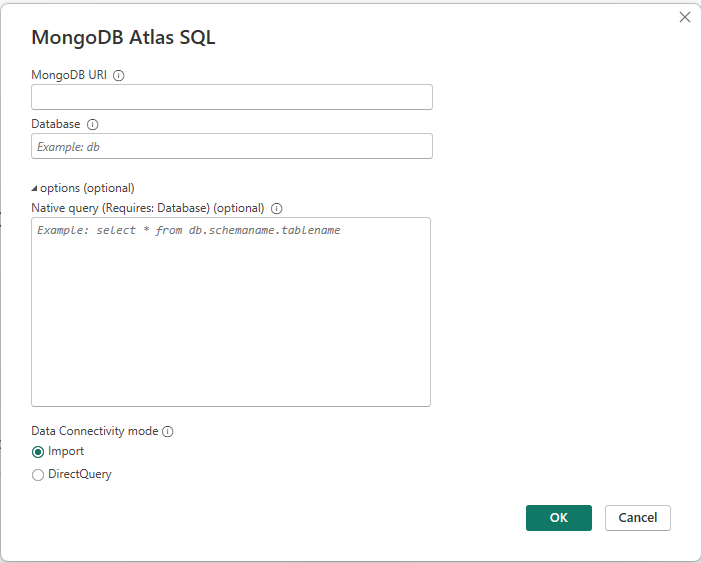
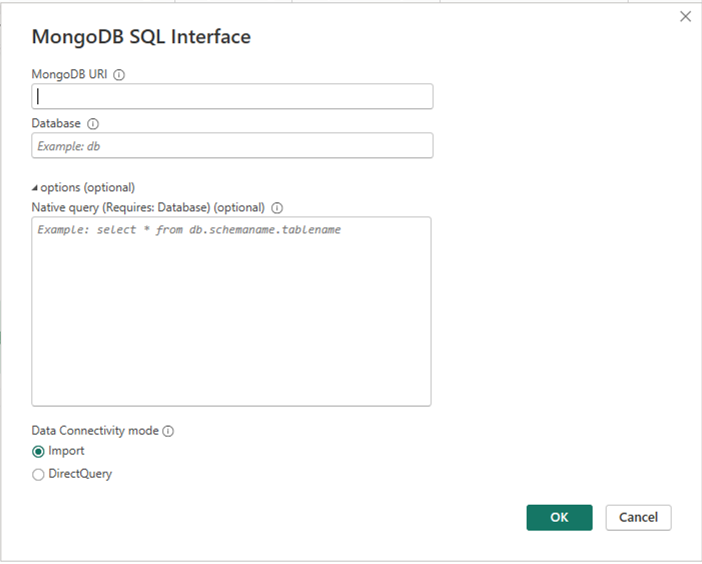
SQL-2941: Power BI Connector update (removal of "Atlas" from name/docs) (#66)
* change MongoDB Atlas SQL to MongoDB SQL Interface

* update MS Connector documentation

* fix formatting

* feedback

* fix note formatting

* nit

diff --git a/mongodb-sql-interface.md b/mongodb-sql-interface.md
@@ -1,0 +1,129 @@
+# MongoDB SQL Interface
+
+> [!Note]
+> This connector is owned and provided by MongoDB.
+
+## Summary
+
+| Item                           | Description                                                                                                       |
+|--------------------------------|-------------------------------------------------------------------------------------------------------------------|
+| Release State                  | General Availability                                                                                              |
+| Products                       | Power BI (Semantic models) <br/> Power BI (Dataflows) <br/> Fabric (Dataflow Gen2)                                |
+| Authentication Types Supported | Database (Username/Password) <br/> X.509 Certificates <br/> OAuth (OIDC) <br/> AWS Identity and Access Management |
+
+> [!Note]
+> When using authentication mechanisms other than Username/Password (such as X.509 Certificates, OAuth (OIDC), or AWS IAM), you can leave the username and password fields blank in the connection dialogue. The appropriate credentials will be handled through the chosen authentication method.
+
+## Prerequisites
+There are two ways to use the MongoDB SQL Interface: In Atlas (The Cloud) or Self-Managed (On-Premises). 
+1. To use the MongoDB SQL Interface in Atlas, you must have an [Atlas federated database](https://www.mongodb.com/docs/atlas/data-federation/) setup. 
+   - Here is the [MongoDB documentation to set up Power BI in Atlas](https://www.mongodb.com/docs/atlas/data-federation/query/connect-with-sql-composable/?deployment-type=atlas&sql-driver=power-bi) 
+2. To use it Self-Managed, you must first create schemas with the [mongodb-schema-manager.exe](https://www.mongodb.com/try/download/sql-schema-builder).
+   - Here is the [MongoDB documentation to set up Power BI on a Self-Managed cluster](https://www.mongodb.com/docs/atlas/data-federation/query/connect-with-sql-composable/?deployment-type=self&sql-driver=power-bi&os=windows).
+
+### Obtaining connection information in Atlas
+
+1. Navigate to your federated database instance. In Atlas, select **Data Federation** from the left navigation panel.
+2. Select **Connect** to open the federated database instance connection modal.
+3. Select **Atlas SQL**.
+4. Select **Power BI Connector**.
+5. Copy your federated database name and MongoDB URI. You'll need them in a later step.
+
+> [!Note]
+> If some or all of your data comes from an Atlas cluster, you must use MongoDB version 5.0 or greater for that cluster to take advantage of Atlas SQL.
+
+### Obtaining connection information for Self-Managed systems
+In this case, the connection information is maintained by your organization, so you'll have to work with them to get it.
+
+### Install the ODBC driver and (optionally) the latest Power BI Connector
+The [MongoDB Atlas SQL ODBC Driver](https://www.mongodb.com/try/download/odbc-driver) is required to use the MongoDB SQL Interface. You must download and install it.
+
+Optionally, you can also download and install the latest [Power BI Connector](https://www.mongodb.com/try/download/power-bi-connector) if you wish to have the most up-to-date version.
+
+> [!Note]
+> The release roll-out in Power BI is a separate process, and it can take some time before the next release is available. You may need to download the latest version for
+> newer features/capabilities and bug fixes. 
+
+## Capabilities Supported
+
+* Import
+* DirectQuery (Power BI semantic models)
+
+## Connect using the MongoDB SQL Interface from Power Query Desktop
+
+To connect using the MongoDB SQL interface:
+
+1. Select **Get Data** from the **Home** ribbon in Power BI Desktop.
+
+2. Select **Database** from the categories on the left, select **MongoDB SQL Interface**, and then select **Connect**.
+> [!Note]
+> If you installed a newer version of the Power BI connector, it might show as "MongoDB SQL Interface (Custom)" instead. 
+
+   ![Get Data from MongoDB SQL Interface](./media/mongodb/mongodb_get_data.png)
+
+3. If you're connecting to the MongoDB SQL Interface for the first time, a third-party notice is displayed. 
+   Select **"Don't warn me again with this connector"** if you don't want this message to be displayed again.
+
+   Select **Continue**. 
+
+4. In the MongoDB SQL Interface window that appears, fill in the following values:
+
+   - The **MongoDB URI**. _Required_ \
+     Use the MongoDB URI obtained [in the prerequisites](#Prerequisites).  Make sure that it doesn't contain your username and password. URIs containing username and/or passwords are rejected.
+   - Your **Database** name. _Required_ \
+     If you're using Atlas, use the name of the federated database obtained [in the prerequisites](#Prerequisites). If you're self-managed, use the name of the database you'd like to connect to.
+   - A SQL query. _Optional_ \
+     Enter a native Atlas SQL query to execute immediately. If the **Database** is the same as above, you may omit it from the query.
+     ```
+     SELECT * FROM orders
+     ```
+   - Select either **Import** or **DirectQuery** for your desired Data Connectivity mode
+   
+   Select **OK**.  
+
+   ![Atlas SQL connection dialogue](./media/mongodb/mongodb_connection_dialogue.png)
+   
+5. Enter your Atlas MongoDB Database access username and password and select **Connect**.  
+
+   ![Authentication](./media/mongodb/mongodb_authentication.png)  
+
+> [!Note]
+> Once you enter your username and password for a particular database, Power BI Desktop uses those same credentials in subsequent connection attempts. You can modify those credentials by going to **File** > **Options and settings** > **Data source settings**.  
+
+6. In **Navigator**, select one or multiple elements to import and use in Power BI Desktop. 
+   Then select either **Load** to load the table in Power BI Desktop, or **Transform Data** to open the Power Query 
+   editor where you can filter and refine the set of data you want to use, and then load that refined set of data into 
+   Power BI Desktop.
+
+## Connect using the MongoDB SQL interface from Power Query Online
+
+To connect using the MongoDB SQL interface:
+
+1. Select **MongoDB SQL Interface** from the **Power Query - Choose data source** page.
+2. On the **Connection settings** page, fill in the following values:
+    - The **MongoDB URI**. _Required_.   
+      Use the MongoDB URI obtained [in the prerequisites](#Prerequisites).  Make sure that it doesn't contain your username and password. URIs containing username and/or passwords are rejected.
+    - Your **Database** name. _Required_  
+      If you're using Atlas, use the name of the federated database obtained [in the prerequisites](#Prerequisites). If you're self-managed, use the name of the database you'd like to connect to.
+
+   ![Connection Settings](./media/mongodb/mongodb_connect_to_data_source.png)
+
+3. In the **Navigator** screen, select the data you require, and then select **Transform data**. This selection opens the Power Query editor so that you can filter and refine the set of data you want to use.  
+
+   ![Navigator](./media/mongodb/mongodb_choose_data.png)
+
+## Troubleshooting
+
+When a connection can't be established, the generic error message 
+`The driver returned invalid (or failed to return) SQL_DRIVER_ODBC_VER: 03.80` is displayed.
+Start by checking your credentials and that you have no network issues accessing your federated database.
+
+## Next steps
+
+You might also find the following information useful:
+* [SQL Interface Overview](https://www.mongodb.com/docs/atlas/data-federation/query/connect-with-sql-overview/)
+* [Query with the SQL Interface](https://www.mongodb.com/docs/atlas/data-federation/query/sql/query-with-asql-statements/)
+* [Set Up and Query Data Federation](https://www.mongodb.com/docs/atlas/data-federation/)
+* [Schema Management in Atlas Data Federation](https://www.mongodb.com/docs/atlas/data-federation/query/sql/schema-management/)
+* [MongoSQL Language Reference](https://www.mongodb.com/docs/atlas/data-federation/query/sql/language-reference/)
+* [MongoSQL Errors Guide](https://www.mongodb.com/docs/atlas/data-federation/query/sql/errors/)

diff --git a/testing.md b/testing.md
@@ -71,7 +71,7 @@ It is a good idea to clear the data cache and data source settings to ensure the
 ## Running Tests
 ### Navigation Table
 Test that the expected tables are shown in the navigation table and that data is loaded in the expected format.
-* `Get Data` -> `More...` -> `Database` -> `MongoDB Atlas SQL`
+* `Get Data` -> `More...` -> `Database` -> `MongoDB SQL Interface`
 * Enter MongoDB URI: `mongodb://localhost/?ssl=false`
 * Enter Database: `integration_test`
 * Click `OK`
@@ -92,7 +92,7 @@ Test that the expected tables are shown in the navigation table and that data is
 
 ### Query
 Test that data is loaded in the expected format when running a native query.
-* `Get Data` -> `More...` -> `Database` -> `MongoDB Atlas SQL`
+* `Get Data` -> `More...` -> `Database` -> `MongoDB SQL Interface`
 * Enter MongoDB URI: `mongodb://localhost/?ssl=false`
 * Enter Database: `integration_test_2`
 * Enter SQL Statement: `select * from sales`
@@ -145,7 +145,7 @@ The following query is sufficient to test Native Query as it exercises mutliple 
 2. Build the Connector, if necessary, following the instructions from the [Build](Build) Section.
 3. Start Power BI and ensure the Data Cache has been cleared.
 4. Choose *Get Data*
-5. Search for "mongodb" in the search box, and select the *MongoDB Atlas SQL* connector.
+5. Search for "mongodb" in the search box, and select the *MongoDB SQL Interface* connector.
 6. Connect to your local ADF.
 - The URI should be `mongodb://localhost` (unless $ADF_TEST_LOCAL_HOST differs)
 - The database is `integration_test`.
@@ -194,7 +194,7 @@ Each Direct Query test we want to run is stored in the `resources/direct_query` 
 2. Build the Connector, if necessary, following the steps from the (Build)[Build] Section.
 3. Start Power BI and ensure the Data Cache has been cleared.
 4. Choose *Get Data*
-5. Search for "mongodb" in the search box, and select the *MongoDB Atlas SQL* connector.
+5. Search for "mongodb" in the search box, and select the *MongoDB SQL Interface* connector.
 6. Connect to your local ADF.
 - The URI should be `mongodb://localhost` (unless $ADF_TEST_LOCAL_HOST differs)
 - Make sure to select the Direct Query radio button instead of Import

diff --git a/README.md b/README.md
@@ -1,3 +1,3 @@
 # MongoDB Power BI Connector
 
-This repository contains a customer Power BI connector for MongoDB Atlas SQL.
+This repository contains a customer Power BI connector for the MongoDB SQL Interface.
